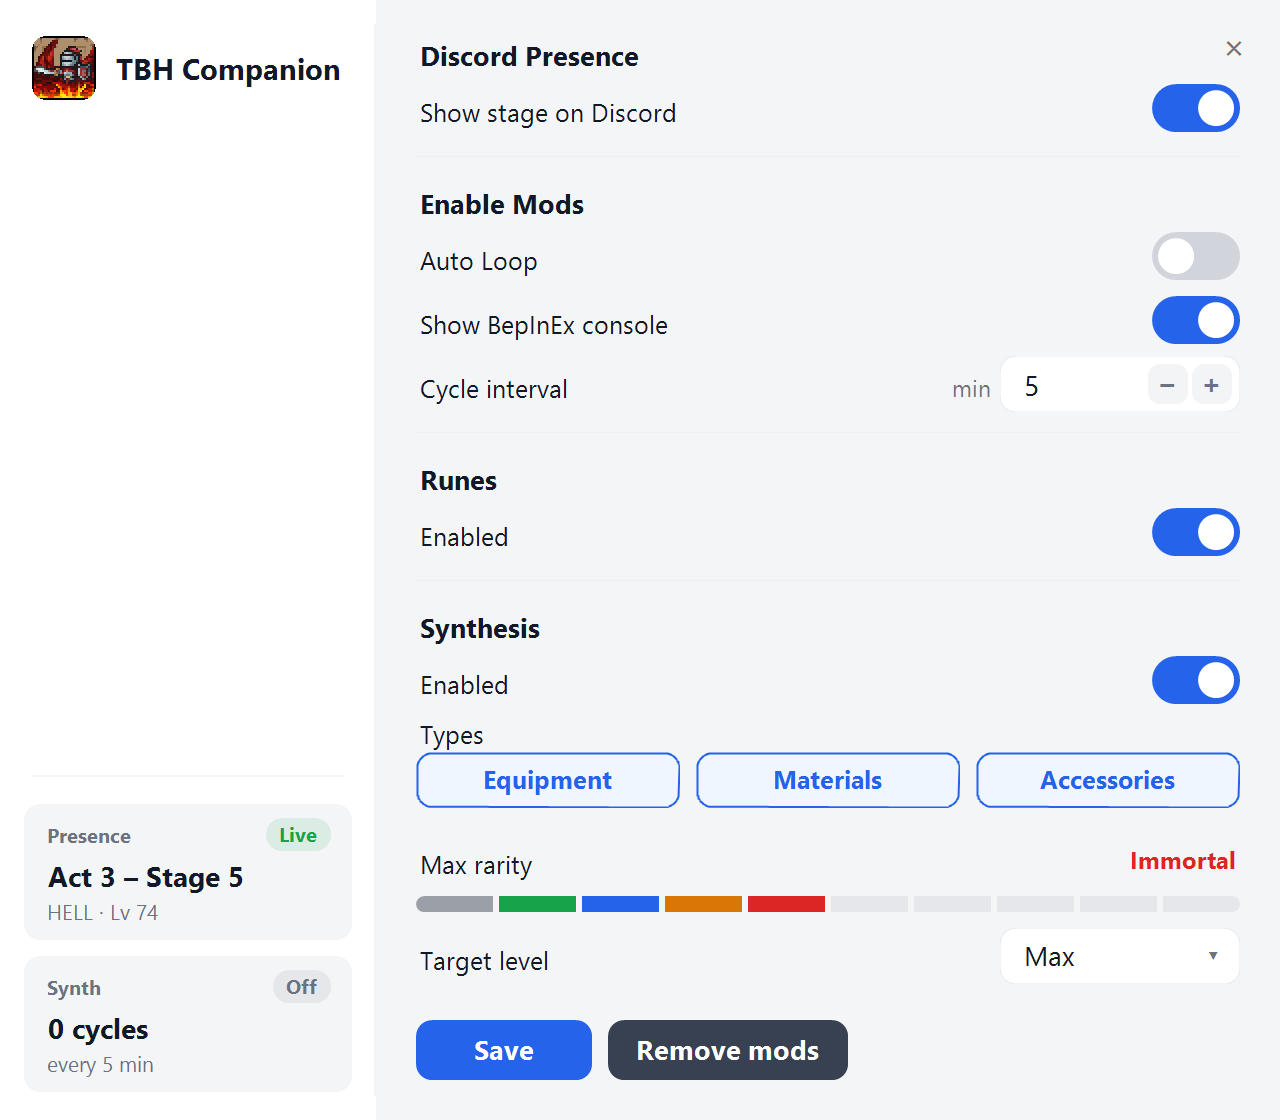
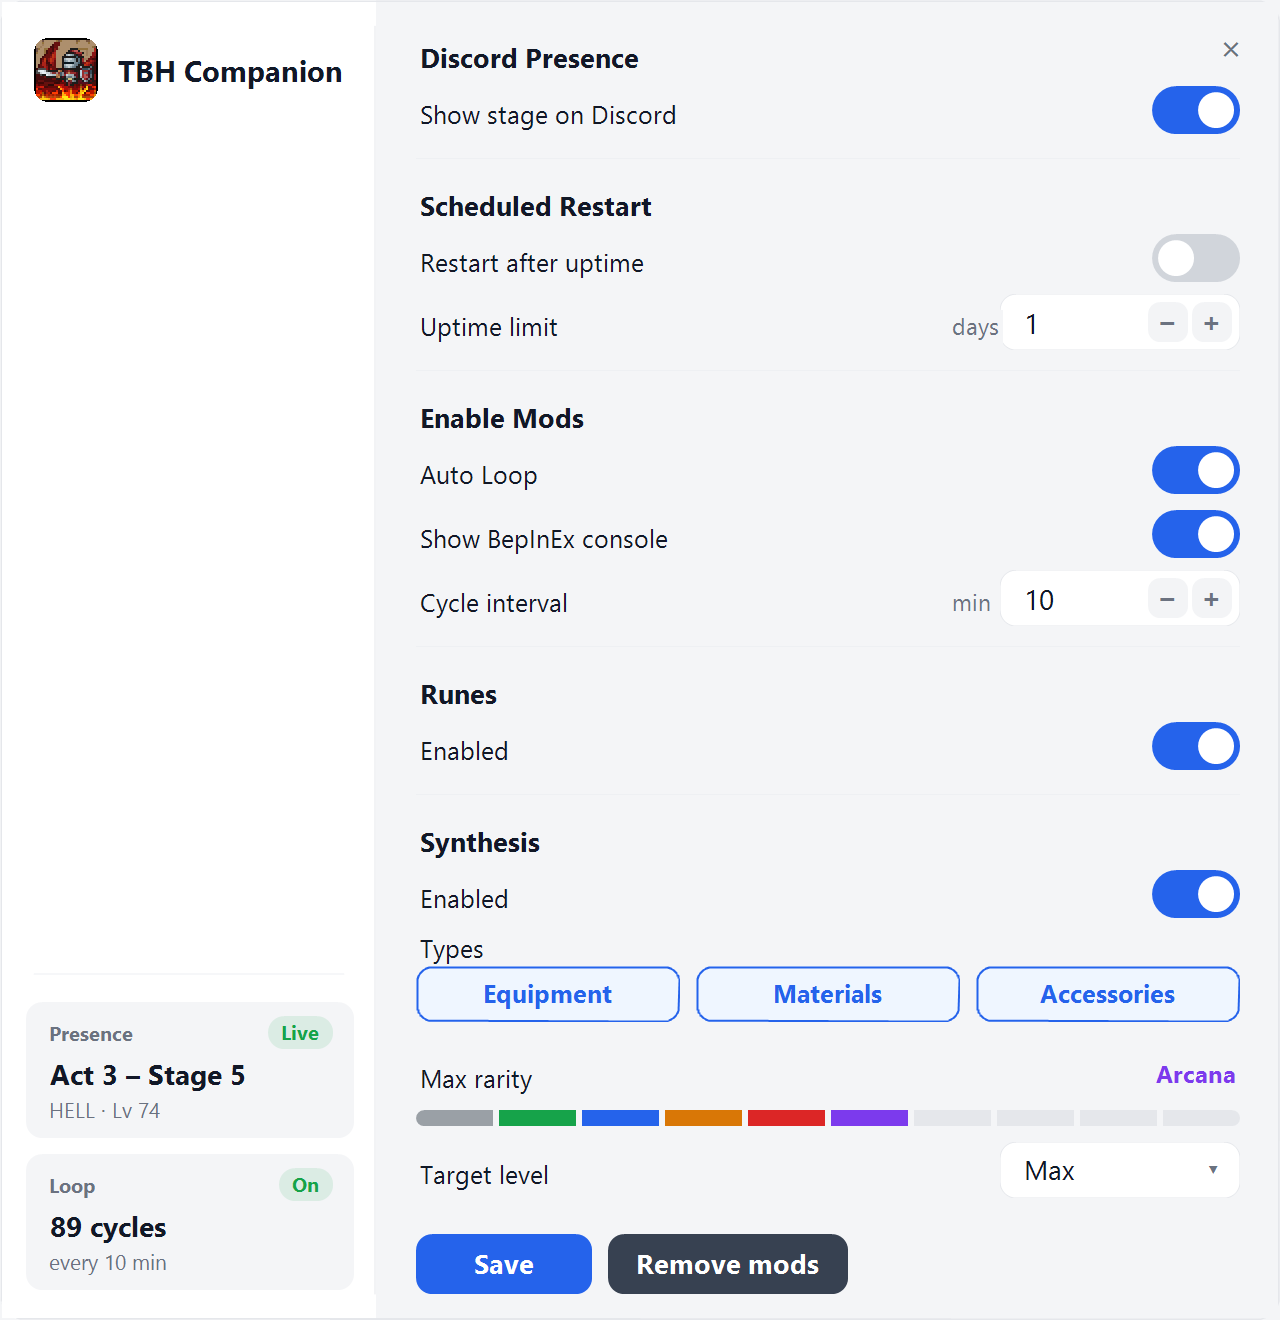
feat(companion): add scheduled game restart after N days
Opt-in setting closes and relaunches TaskBarHero after configurable uptime to shed RAM on long idle sessions. Closes #18.

diff --git a/src/GameRestart.cs b/src/GameRestart.cs
@@ -1,0 +1,122 @@
+using System;
+using System.Diagnostics;
+using System.IO;
+using System.Threading;
+
+namespace TbhCompanion
+{
+    // Closes and relaunches TaskBarHero after a configurable uptime, so long
+    // idle sessions can shed accumulated RAM. Opt-in via AppSettings.
+    static class GameRestart
+    {
+        const int SteamAppId = 3678970;
+        static DateTime _cooldownUntilUtc = DateTime.MinValue;
+
+        public static bool IsDue(Process proc)
+        {
+            if (!AppSettings.AutoRestartEnabled) return false;
+            if (DateTime.UtcNow < _cooldownUntilUtc) return false;
+            int days = AppSettings.AutoRestartDays;
+            if (days < 1 || proc == null) return false;
+            try
+            {
+                return (DateTime.Now - proc.StartTime) >= TimeSpan.FromDays(days);
+            }
+            catch { return false; }
+        }
+
+        // Kill the running game and start it again. Returns true if a relaunch
+        // was attempted. Sets a cooldown so a failed launch cannot loop.
+        public static bool TryRestart(Process proc, Action<string> log)
+        {
+            int days = AppSettings.AutoRestartDays;
+            _cooldownUntilUtc = DateTime.UtcNow.AddMinutes(10);
+
+            string exePath = null;
+            try { if (proc != null) exePath = proc.MainModule.FileName; } catch { }
+            if (exePath == null)
+            {
+                string dir = AutoSynthDeploy.FindGameDir();
+                if (dir != null) exePath = Path.Combine(dir, "TaskBarHero.exe");
+            }
+
+            if (log != null)
+                log("scheduled restart after " + days + " day(s) — closing TaskBarHero...");
+
+            if (!CloseGame(proc))
+            {
+                if (log != null) log("scheduled restart: could not close the game");
+                return false;
+            }
+
+            // Brief pause so Steam / file locks settle before relaunch.
+            Thread.Sleep(2000);
+
+            if (LaunchViaSteam(log)) return true;
+            if (LaunchExe(exePath, log)) return true;
+
+            if (log != null) log("scheduled restart: game closed, but relaunch failed");
+            return false;
+        }
+
+        static bool CloseGame(Process proc)
+        {
+            if (proc == null) return false;
+            try
+            {
+                if (proc.HasExited) return true;
+                // Prefer a graceful close so the game can autosave; fall back to Kill.
+                bool closed = false;
+                try { closed = proc.CloseMainWindow(); } catch { }
+                if (closed)
+                {
+                    if (proc.WaitForExit(20000)) return true;
+                }
+                if (!proc.HasExited)
+                {
+                    proc.Kill();
+                    proc.WaitForExit(15000);
+                }
+                return proc.HasExited;
+            }
+            catch
+            {
+                try { if (!proc.HasExited) { proc.Kill(); proc.WaitForExit(10000); } }
+                catch { return false; }
+                try { return proc.HasExited; } catch { return false; }
+            }
+        }
+
+        static bool LaunchViaSteam(Action<string> log)
+        {
+            try
+            {
+                Process.Start(new ProcessStartInfo
+                {
+                    FileName = "steam://rungameid/" + SteamAppId,
+                    UseShellExecute = true
+                });
+                if (log != null) log("scheduled restart: launching via Steam...");
+                return true;
+            }
+            catch { return false; }
+        }
+
+        static bool LaunchExe(string exePath, Action<string> log)
+        {
+            if (string.IsNullOrEmpty(exePath) || !File.Exists(exePath)) return false;
+            try
+            {
+                Process.Start(new ProcessStartInfo
+                {
+                    FileName = exePath,
+                    WorkingDirectory = Path.GetDirectoryName(exePath),
+                    UseShellExecute = true
+                });
+                if (log != null) log("scheduled restart: launching TaskBarHero...");
+                return true;
+            }
+            catch { return false; }
+        }
+    }
+}

diff --git a/src/StatusForm.cs b/src/StatusForm.cs
@@ -37,7 +37,7 @@ namespace TbhCompanion
             Environment.GetFolderPath(Environment.SpecialFolder.LocalApplicationData),
             "tbh-companion", "autosynth-status.json");
 
-        const int W = 640, SideW = 188, H = 560;
+        const int W = 640, SideW = 188, H = 660;
         const int PadX = 20;
         const int MainW = W - SideW - PadX * 2; // content width in main pane
         const int ContentRight = PadX + MainW;
@@ -70,11 +70,12 @@ namespace TbhCompanion
         LiveStrip _live;
         Panel _side, _main;
         Toggle _presenceToggle;
+        Toggle _autoRestart;
         Toggle _autoLoop, _enableSynth, _autoRune, _showConsole;
         TypeTile _tEquip, _tMaterials, _tAccessories;
         SegmentBar _seg;
         Label _rarityValue;
-        Stepper _cycleMin;
+        Stepper _cycleMin, _restartDays;
         FlatDrop _desiredLevel;
         FlatButton _saveBtn, _setupBtn, _removeBtn;
         Label _cfgNote;
@@ -95,7 +96,7 @@ namespace TbhCompanion
             Font = Theme.F(9f, FontStyle.Regular);
             BackColor = Theme.FormBg;
             try { using (var g = Graphics.FromHwnd(IntPtr.Zero)) _s = g.DpiX / 96f; } catch { _s = 1f; }
-            int height = Build.Synth ? H : 260;
+            int height = Build.Synth ? H : 340;
             ClientSize = new Size(Sc(W), Sc(height));
             DoubleBuffered = true;
             SetStyle(ControlStyles.OptimizedDoubleBuffer | ControlStyles.AllPaintingInWmPaint | ControlStyles.UserPaint, true);
@@ -231,10 +232,22 @@ namespace TbhCompanion
 
         void BuildPresenceOnly()
         {
-            AddMainLabel("Discord Presence", 20, 28, Theme.TextDark, Theme.F(11f, FontStyle.Bold));
-            AddMainLabel("Show your current stage on Discord", 20, 52, Theme.TextMuted, Theme.F(8.5f, FontStyle.Regular));
-            _presenceToggle = MakePresenceToggle(ContentRight - 44, 34);
-            _main.Controls.Add(_presenceToggle);
+            const int toggleW = 44;
+            const int fieldW = 120;
+            int toggleX = ContentRight - toggleW;
+            int fieldX = ContentRight - fieldW;
+            int y = 18;
+
+            y = AddSectionHeader("Discord Presence", y);
+            y = AddToggleRow("Show stage on Discord", ref _presenceToggle, toggleX, y);
+            _presenceToggle.Checked = _presenceEnabled == null || _presenceEnabled();
+            _presenceToggle.CheckedChanged += delegate
+            {
+                if (_setPresenceEnabled != null) _setPresenceEnabled(_presenceToggle.Checked);
+            };
+            y = AddSectionDivider(y);
+
+            y = AddRestartSection(y, toggleX, fieldX, fieldW);
         }
 
         void BuildSettings()
@@ -254,6 +267,9 @@ namespace TbhCompanion
                 if (_setPresenceEnabled != null) _setPresenceEnabled(_presenceToggle.Checked);
             };
             y = AddSectionDivider(y);
+
+            // ---- Scheduled Restart (companion setting; applies immediately) ----
+            y = AddRestartSection(y, toggleX, fieldX, fieldW);
 
             // ---- Enable Mods ----
             y = AddSectionHeader("Enable Mods", y);
@@ -338,6 +354,27 @@ namespace TbhCompanion
             return y + HeaderAfter;
         }
 
+        int AddRestartSection(int y, int toggleX, int fieldX, int fieldW)
+        {
+            y = AddSectionHeader("Scheduled Restart", y);
+            y = AddToggleRow("Restart after uptime", ref _autoRestart, toggleX, y);
+            y = AddFieldRow("Uptime limit", "days", y, fieldX, fieldW, out _restartDays);
+            _restartDays.Min = 1; _restartDays.Max = 30; _restartDays.Step = 1; _restartDays.Decimals = 0;
+            _restartDays.SetValue(AppSettings.AutoRestartDays);
+            _autoRestart.Checked = AppSettings.AutoRestartEnabled;
+            _restartDays.Enabled = _autoRestart.Checked;
+            _autoRestart.CheckedChanged += delegate
+            {
+                AppSettings.AutoRestartEnabled = _autoRestart.Checked;
+                _restartDays.Enabled = _autoRestart.Checked;
+            };
+            _restartDays.ValueChanged += delegate
+            {
+                AppSettings.AutoRestartDays = (int)_restartDays.Value;
+            };
+            return AddSectionDivider(y);
+        }
+
         int AddSectionDivider(int y)
         {
             y += 6;
@@ -404,18 +441,6 @@ namespace TbhCompanion
         }
 
         // ---- helpers ----
-
-        Toggle MakePresenceToggle(int x, int y)
-        {
-            var t = new Toggle();
-            t.SetBounds(Sc(x), Sc(y), Sc(44), Sc(24));
-            t.Checked = _presenceEnabled == null || _presenceEnabled();
-            t.CheckedChanged += delegate
-            {
-                if (_setPresenceEnabled != null) _setPresenceEnabled(t.Checked);
-            };
-            return t;
-        }
 
         Label AddMainLabel(string text, int x, int y, Color color, Font font)
         {

diff --git a/src/AppSettings.cs b/src/AppSettings.cs
@@ -1,5 +1,6 @@
 using System;
 using System.Collections.Generic;
+using System.Globalization;
 using System.IO;
 
 namespace TbhCompanion
@@ -18,36 +19,73 @@ namespace TbhCompanion
         public static bool PresenceEnabled
         {
             get { return GetBool("PresenceEnabled", true); }
-            set { SetBool("PresenceEnabled", value); }
+            set { Set("PresenceEnabled", value ? "true" : "false"); }
+        }
+
+        // Close and relaunch TaskBarHero after it has been running this long.
+        // Off by default — opt-in for long idle sessions that accumulate RAM.
+        public static bool AutoRestartEnabled
+        {
+            get { return GetBool("AutoRestartEnabled", false); }
+            set { Set("AutoRestartEnabled", value ? "true" : "false"); }
+        }
+
+        // Days of continuous uptime before a scheduled restart (1–30).
+        public static int AutoRestartDays
+        {
+            get
+            {
+                int d = GetInt("AutoRestartDays", 1);
+                if (d < 1) return 1;
+                if (d > 30) return 30;
+                return d;
+            }
+            set
+            {
+                int d = value < 1 ? 1 : (value > 30 ? 30 : value);
+                Set("AutoRestartDays", d.ToString(CultureInfo.InvariantCulture));
+            }
         }
 
         static bool GetBool(string key, bool fallback)
         {
+            string v = Get(key);
+            if (v == null) return fallback;
+            return !v.Equals("false", StringComparison.OrdinalIgnoreCase) && v != "0";
+        }
+
+        static int GetInt(string key, int fallback)
+        {
+            string v = Get(key);
+            int n;
+            return v != null && int.TryParse(v, NumberStyles.Integer, CultureInfo.InvariantCulture, out n)
+                ? n : fallback;
+        }
+
+        static string Get(string key)
+        {
             try
             {
-                if (!File.Exists(FilePath)) return fallback;
+                if (!File.Exists(FilePath)) return null;
                 foreach (var line in File.ReadAllLines(FilePath))
                 {
                     int eq = line.IndexOf('=');
                     if (eq <= 0) continue;
                     if (line.Substring(0, eq).Trim() == key)
-                    {
-                        var v = line.Substring(eq + 1).Trim();
-                        return !v.Equals("false", StringComparison.OrdinalIgnoreCase) && v != "0";
-                    }
+                        return line.Substring(eq + 1).Trim();
                 }
             }
             catch { }
-            return fallback;
+            return null;
         }
 
-        static void SetBool(string key, bool value)
+        static void Set(string key, string value)
         {
             try
             {
                 Directory.CreateDirectory(Dir);
                 var lines = File.Exists(FilePath) ? new List<string>(File.ReadAllLines(FilePath)) : new List<string>();
-                string entry = key + " = " + (value ? "true" : "false");
+                string entry = key + " = " + value;
                 bool replaced = false;
                 for (int i = 0; i < lines.Count; i++)
                 {

diff --git a/src/PresenceEngine.cs b/src/PresenceEngine.cs
@@ -112,6 +112,17 @@ namespace TbhCompanion
 
                         while (_running && !proc.HasExited)
                         {
+                            if (GameRestart.IsDue(proc))
+                            {
+                                // Clear Discord before killing so the profile doesn't stick.
+                                if (discord.Connected && lastSent != "")
+                                {
+                                    try { discord.ClearActivity(); lastSent = ""; } catch { discord.Dispose(); }
+                                }
+                                GameRestart.TryRestart(proc, Status);
+                                break;
+                            }
+
                             if (PresenceEnabled)
                             {
                                 if (!discord.Connected && (DateTime.Now - lastDiscordTry).TotalSeconds >= 30)

diff --git a/README.md b/README.md
@@ -113,6 +113,9 @@ settings, grouped by section:
 
 - **Discord Presence** — *Show stage on Discord* (also on the tray menu).
   Applies instantly and is remembered next launch.
+- **Scheduled Restart** — optionally close and relaunch TaskBarHero after it
+  has been open for a set number of days (1–30). Helps shed RAM on long idle
+  sessions. Applies instantly; off by default.
 - **Enable Mods**
   - **Auto Loop** — arms the loop when the game starts, and syncs the running
     loop when you save. F8 still toggles the live loop in-game without changing